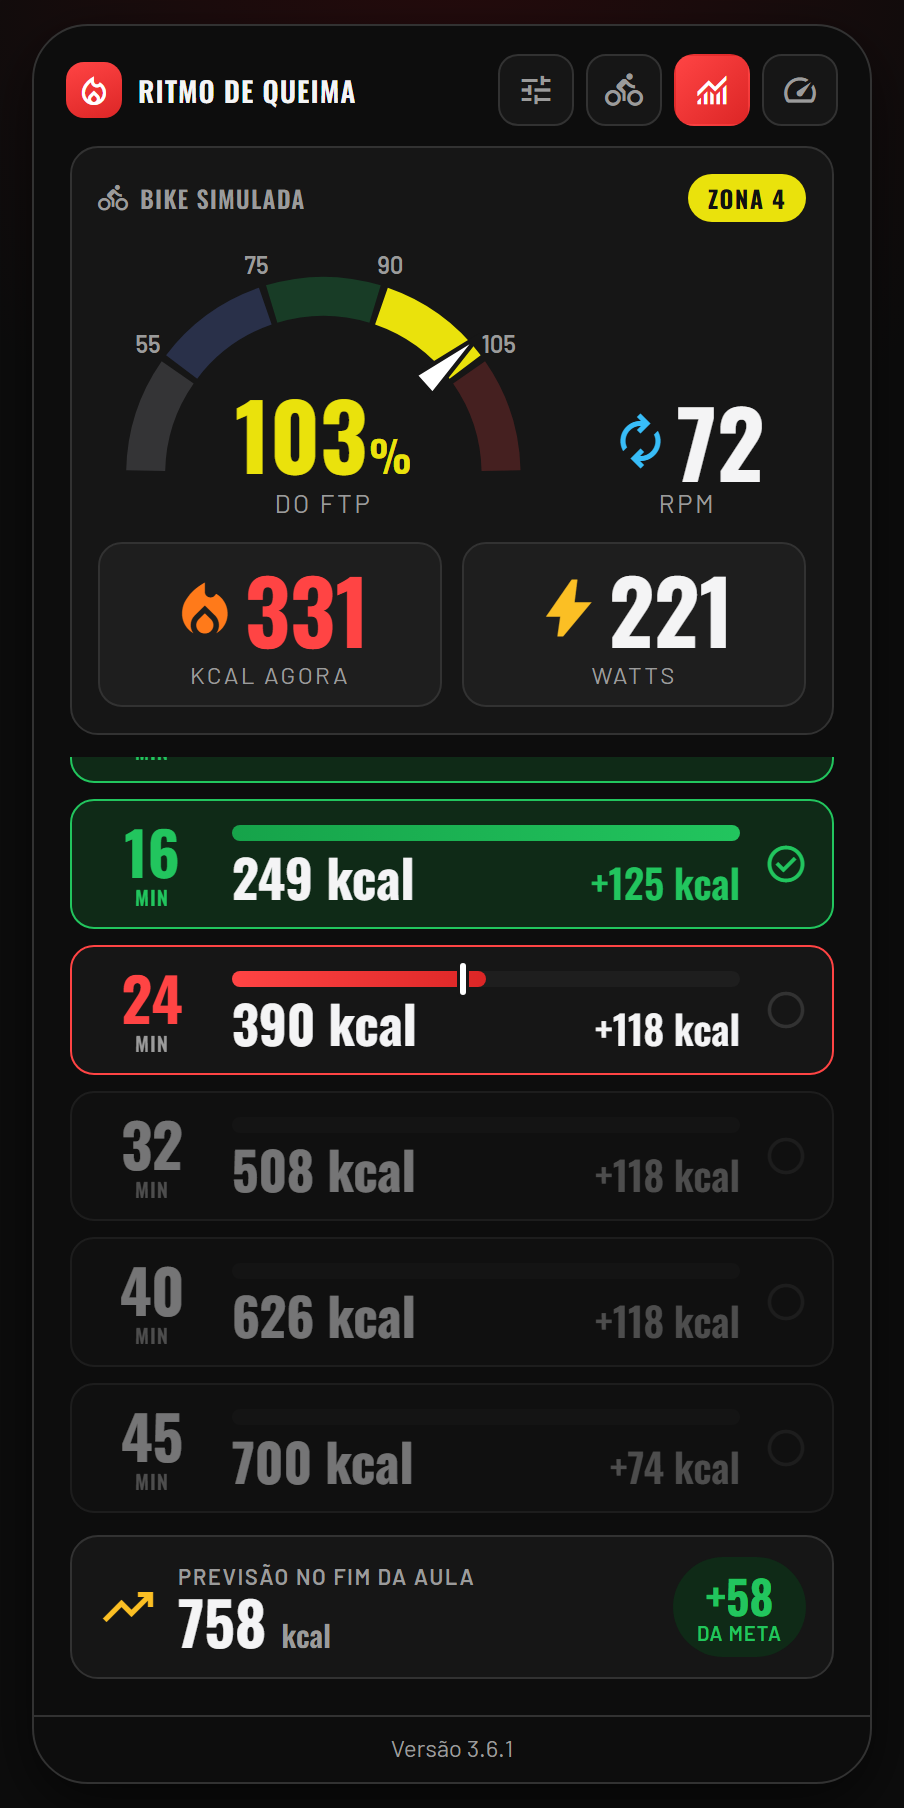
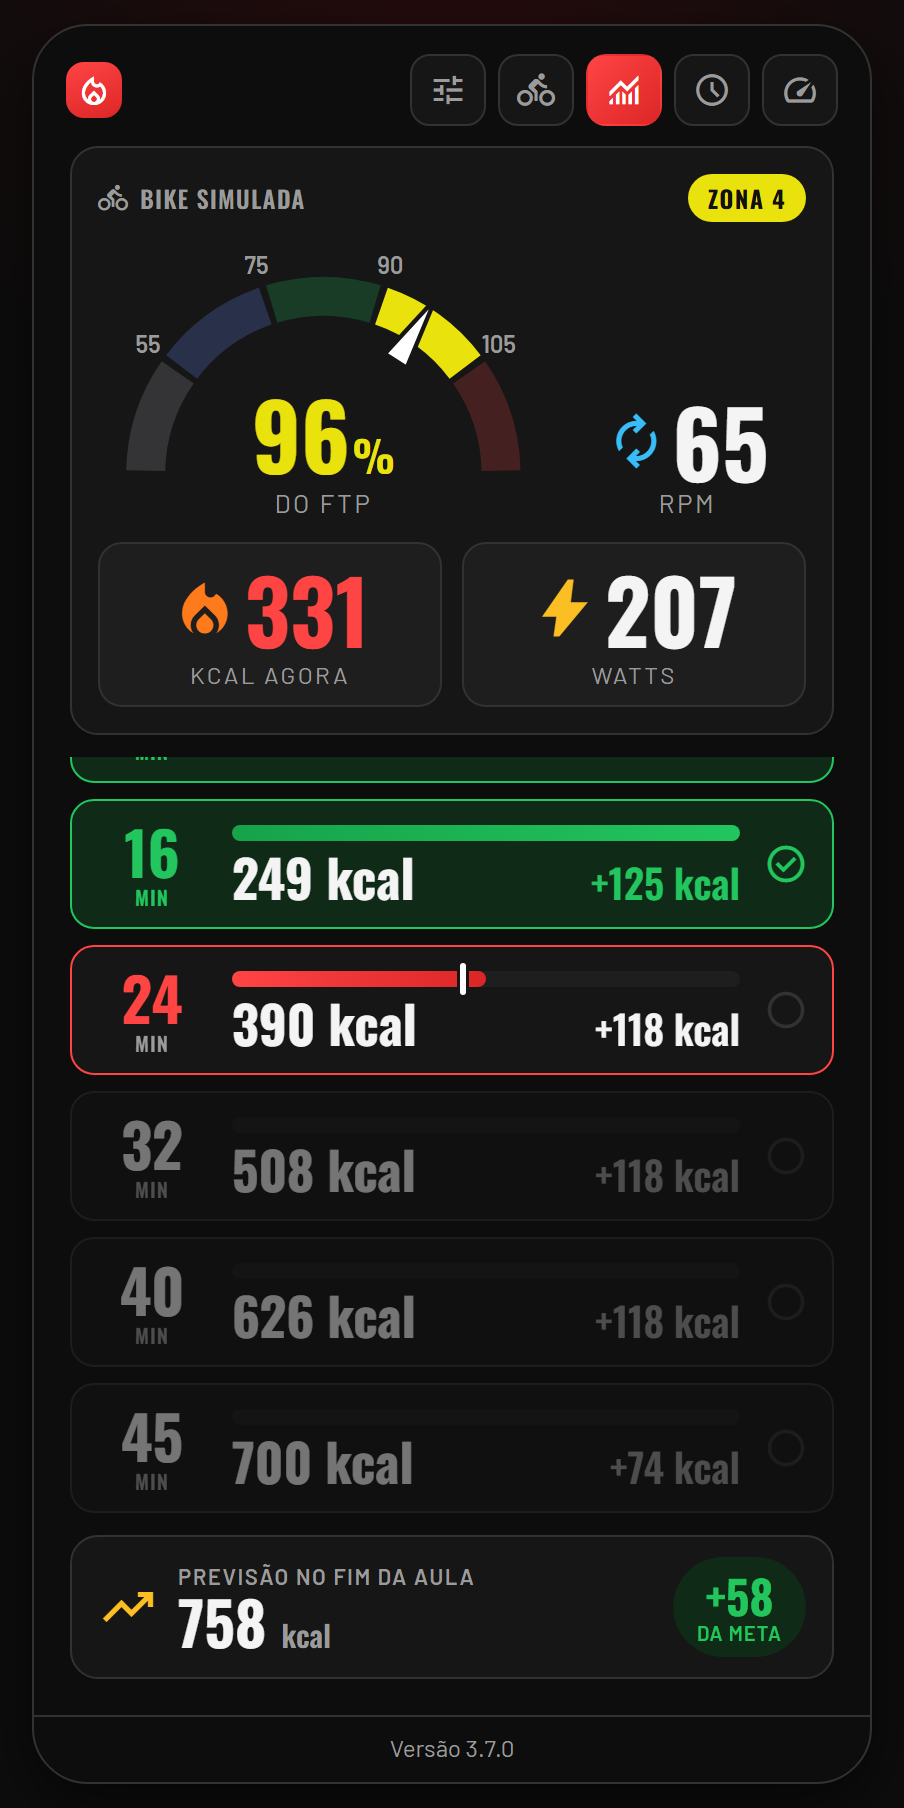
feat: class clock button to sync the reference time
- clock button on the live panel asks for the current class time and
  syncs the reference clock, so the time tick shows up on the first
  marker right away; accepts 02:45, 2:45, 02 45, 2 45, 0245 and 245
- syncing unconfirms markers that end after the typed time (restoring
  their goals) and auto-confirms the ones already passed
- tapping or undoing a marker refreshes the forecast immediately
- hide the app name on the live panel so the five header buttons fit
- fix mm:ss formatting off by one second from float rounding
- refresh README text and screenshots; bump version to 3.7.0

diff --git a/index.html b/index.html
@@ -205,6 +205,7 @@
       <button class="navbtn active" id="navSetup" title="Configurar" aria-label="Configurar"><span class="mi">tune</span></button>
       <button class="navbtn" id="navBikes" title="Bikes" aria-label="Bikes"><span class="mi">directions_bike</span></button>
       <button class="navbtn" id="navLive" title="Painel" aria-label="Painel" disabled><span class="mi">monitoring</span></button>
+      <button class="navbtn hidden" id="navClock" title="Tempo da aula" aria-label="Acertar tempo da aula"><span class="mi">schedule</span></button>
       <button class="navbtn" id="navFtp" title="FTP" aria-label="Alterar FTP"><span class="mi">speed</span></button>
     </nav>
   </header>
@@ -291,7 +292,7 @@
     </div>
 
   </div>
-  <footer class="app-version">Versão 3.6.1</footer>
+  <footer class="app-version">Versão 3.7.0</footer>
 </div>
 
 <script>
@@ -313,7 +314,7 @@
   var detected=new Map();     // bikeId -> { data, lastSeen }
   var view="setup", simState=null;
   var confirmedIdx=0, history=[];   // marcos confirmados na aula (sequencial) + snapshots pra desfazer
-  var clock=null;             // {at,min}: relógio de referência acertado no último toque manual (at=Date.now(), min=minuto da aula); não é exibido
+  var clock=null;             // {at,min}: relógio de referência acertado no último toque manual ou pelo botão de relógio (at=Date.now(), min=minuto da aula); não é exibido
   var followIdx=-1;           // confirmedIdx pro qual a lista de marcos já foi rolada
   var kcalRestored=false, savedKcal=null;  // kcal veio do localStorage (refresh) — a próxima leitura real substitui sem o filtro de glitch
   var watched=new Map();      // device.id -> {device, ctrl}: bikes autorizadas cujos anúncios estamos escutando
@@ -337,7 +338,10 @@
     $("navSetup").classList.toggle("active",v==="setup");
     $("navBikes").classList.toggle("active",v==="bikes");
     $("navLive").classList.toggle("active",v==="live");
+    $("navClock").classList.toggle("hidden",v!=="live");
     $("title").textContent = v==="setup"?"Configurar":(v==="bikes"?"Bikes":"Ritmo de Queima");
+    // no painel o topo tem 5 botões e o nome do app não cabe no celular: fica só a chama
+    $("title").classList.toggle("hidden",v==="live");
     if(v==="bikes"){ renderBikeList(); renderDetected(); updateConnPill(); }
     if(v==="setup") renderBikeLine();
     if(v==="live"){ followIdx=-1; renderLive(); }
@@ -674,20 +678,51 @@
     // toque manual acerta o relógio de referência: agora é o fim deste marco na aula
     if(!auto) clock={at:Date.now(),min:intervals[i].end};
     saveClass();
-    renderIntervals();
+    renderIntervals(); renderForecast();
+  }
+  // desfaz o último marco confirmado, voltando as metas ao que eram antes dele
+  function popConfirmed(){
+    var snap=history.pop();
+    if(snap) intervals=snap;
+    confirmedIdx--;
   }
   // desfazer para o relógio: sem ele não há barra de tempo nem avanço automático até o próximo toque manual
   function unconfirmInterval(i){
     if(i!==confirmedIdx-1) return;
-    var snap=history.pop();
-    if(snap) intervals=snap;
-    confirmedIdx=i;
+    popConfirmed();
     clock=null;
     saveClass();
-    renderIntervals();
+    renderIntervals(); renderForecast();
   }
   // minuto da aula pelo relógio de referência (null enquanto não houve toque manual)
   function classMin(){ return clock ? clock.min+(Date.now()-clock.at)/60000 : null; }
+  // tempo da aula digitado -> minuto da aula (null se inválido). Aceita "02:45", "2:45", "02 45", "2 45",
+  // "0245" (MMSS) e "245" (MSS): só dígitos com 3+ casas = os 2 últimos são os segundos; com 1–2 casas = só minutos ("3")
+  function parseClassTime(v){
+    var s=String(v).trim(), min, sec;
+    var m=s.match(/^(\d{1,3})\s*[:.,h ]\s*(\d{1,2})$/);
+    if(m){ min=+m[1]; sec=+m[2]; }
+    else if(/^\d{1,5}$/.test(s)){
+      if(s.length>=3){ min=+s.slice(0,-2); sec=+s.slice(-2); }
+      else { min=+s; sec=0; }
+    }
+    else return null;
+    if(sec>=60) return null;
+    return min+sec/60;
+  }
+  function fmtClassTime(min){
+    var s=Math.max(0,Math.floor(min*60+1e-6));   // folga pro ponto flutuante: 2+3/60 vira 122,99999 s
+    return String(Math.floor(s/60)).padStart(2,"0")+":"+String(s%60).padStart(2,"0");
+  }
+  // acerta o relógio pelo tempo da aula digitado: marcos confirmados que terminam depois desse tempo são desmarcados
+  // (do último pro primeiro) e os que já passaram são concluídos sozinhos, como no avanço normal
+  function syncClock(min){
+    while(confirmedIdx>0 && intervals[confirmedIdx-1].end>min) popConfirmed();
+    clock={at:Date.now(),min:min};
+    autoAdvance();
+    saveClass();
+    renderLive();
+  }
   // quando o relógio passa do fim do marco atual, conclui sozinho e recalcula os próximos
   function autoAdvance(){
     var t=classMin();
@@ -804,7 +839,7 @@
   function renderForecast(){
     var f=forecastKcal(), diffEl=$("fcDiff");
     var ended=classMin()!=null && classMin()>=S.total;
-    $("fcLabel").textContent = ended ? "total da aula" : (f==null ? "previsão: toque num marco" : "previsão no fim da aula");
+    $("fcLabel").textContent = ended ? "total da aula" : (f==null ? "previsão: acerte o relógio" : "previsão no fim da aula");
     diffEl.classList.toggle("hidden",f==null);
     if(f==null){ $("fcKcal").textContent="–"; return; }
     var fr=Math.round(f), diff=fr-Math.round(S.goal);
@@ -892,6 +927,15 @@
     if(!isFinite(n) || n<0) return;
     S.ftp=n; $("ftp").value=n; saveCfg();
     if(view==="live") renderLive();
+  });
+  // relógio: digita o tempo da aula agora (MM:SS) e a barra de tempo já aparece no marco atual, sem esperar o primeiro toque
+  $("navClock").addEventListener("click",function(){
+    var t=classMin();
+    var v=prompt("Tempo da aula agora (MM:SS)\n\nExemplos pra 2 min 45 s:\n02:45  ·  2:45  ·  2 45  ·  0245  ·  245", t!=null ? fmtClassTime(t) : "");
+    if(v==null || String(v).trim()==="") return;
+    var min=parseClassTime(v);
+    if(min==null){ alert("Tempo inválido. Use MM:SS, MMSS ou MSS — ex. 02:45, 0245 ou 245."); return; }
+    syncClock(min);
   });
 
   // voltou pra tela (desbloqueou o celular / trocou de app): retoma a escuta na hora

diff --git a/README.md b/README.md
@@ -27,9 +27,11 @@ A confirmação começa **manual**: de olho no relógio da aula, você toca no m
 
 Cada toque manual **acerta um relógio de referência** (o toque no marco 8 = minuto 8 da aula). O tempo em si não aparece em lugar nenhum: ele só alimenta um **risco vertical** em cima da barra de kcal do marco atual, que mostra onde você deveria estar no bloco (4 min depois do toque no 8, o risco está na metade do bloco 8→16). Quando o risco chega ao fim, o marco é **concluído sozinho** e o app já recalcula e passa pro próximo. Tocar de novo num marco reacerta o relógio; desfazer um marco para o relógio até o próximo toque.
 
+Também dá pra acertar o relógio sem esperar o primeiro marco: no painel ao vivo há um **botão de relógio** no topo, que pede o tempo da aula agora. Pra facilitar a digitação, aceita `02:45`, `2:45`, `02 45`, `2 45`, `0245` (MMSS) e `245` (MSS) — todos = 2 min 45 s. Só dígitos com 3 ou mais casas: os 2 últimos são os segundos; com 1 ou 2 casas, é só minutos (ex. `3` = 3 min). O risco já aparece no marco atual — no primeiro, logo no começo da aula — e a previsão começa na hora. O prompt já vem preenchido com o tempo que o app estima, pra conferir ou corrigir. O tempo digitado manda nos marcos: os que terminam até esse tempo ficam concluídos (os que faltavam são concluídos sozinhos, como no avanço normal) e os já confirmados que terminam depois dele são **desmarcados**, voltando as metas ao que eram antes deles — ex. com 8 e 16 confirmados, digitar `10:00` desmarca o 16 e o risco fica em 25% do bloco 8→16. Tocar num marco continua acertando o relógio do mesmo jeito.
+
 No painel ao vivo, o quadro da bike fica fixo em cima, a **previsão de kcal no fim da aula** fica fixa no rodapé e só a lista de marcos rola; ela acompanha sozinha o marco atual (o último concluído fica no topo), sem atrapalhar se você rolar na mão.
 
-A previsão usa o relógio de referência: pega o ritmo médio da aula até agora (kcal feitas desde a kcal inicial ÷ minutos de aula) e projeta pro tempo que falta, mostrando também quanto fica acima (verde) ou abaixo (vermelho) da meta. Usa a média da aula inteira, e não só dos últimos minutos, porque a aula alterna zonas de propósito. Antes do primeiro toque num marco (ou depois de desfazer um), ainda não há previsão. Depois do fim da aula, mostra o total.
+A previsão usa o relógio de referência: pega o ritmo médio da aula até agora (kcal feitas desde a kcal inicial ÷ minutos de aula) e projeta pro tempo que falta, mostrando também quanto fica acima (verde) ou abaixo (vermelho) da meta. Usa a média da aula inteira, e não só dos últimos minutos, porque a aula alterna zonas de propósito. Antes de acertar o relógio (pelo botão de relógio ou pelo primeiro toque num marco) ou depois de desfazer um marco, ainda não há previsão. Depois do fim da aula, mostra o total.
 
 A cada confirmação, o app recalcula os blocos seguintes com base na kcal real naquele momento: se você está adiantado, o que falta pros próximos blocos diminui; se está atrasado, aumenta. Ao superar a meta final, a lista sempre acrescenta um próximo nível de +50 kcal, pra continuar acompanhando quem passar do objetivo.
 
